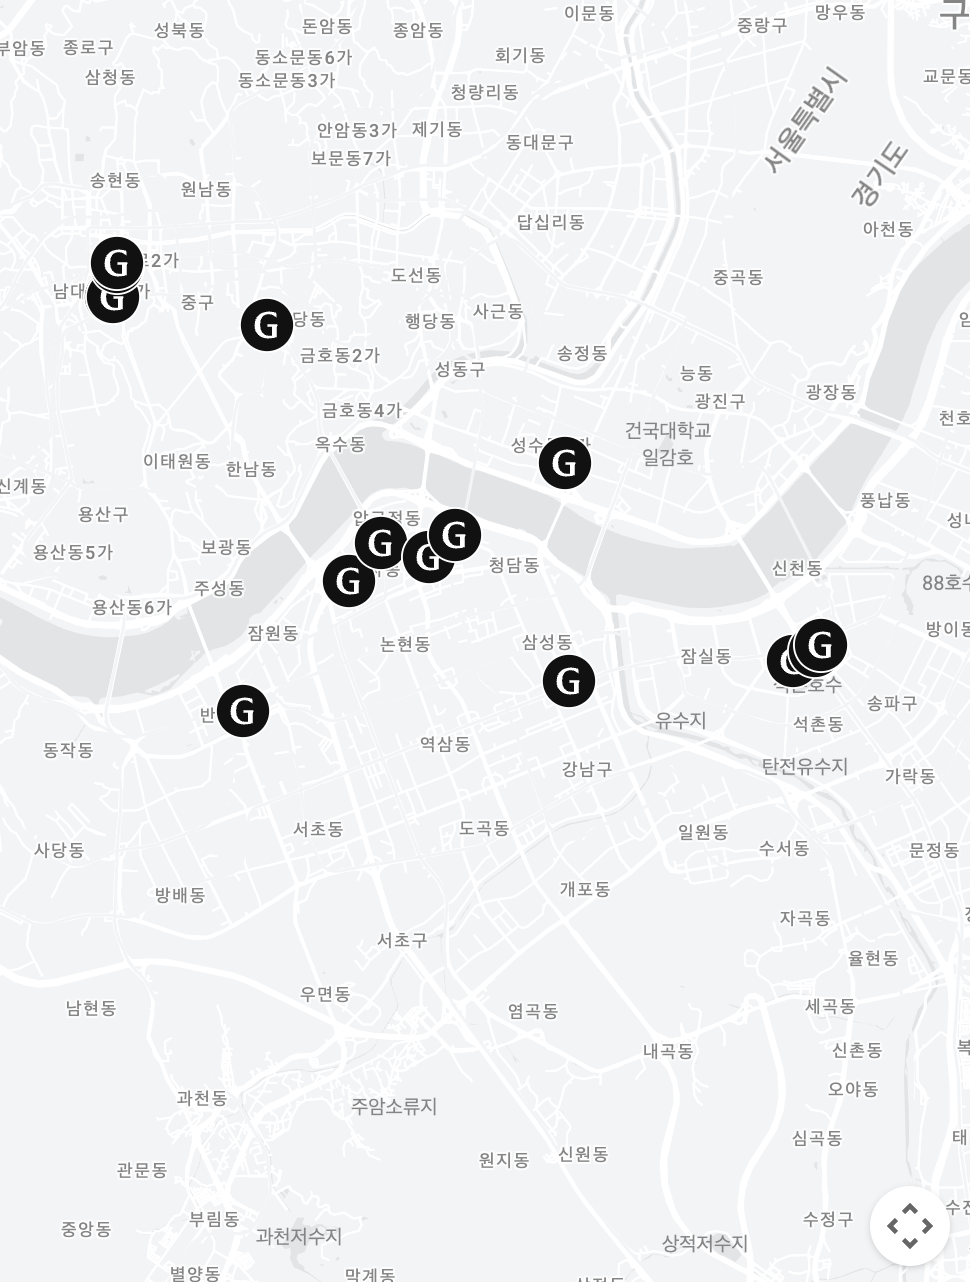
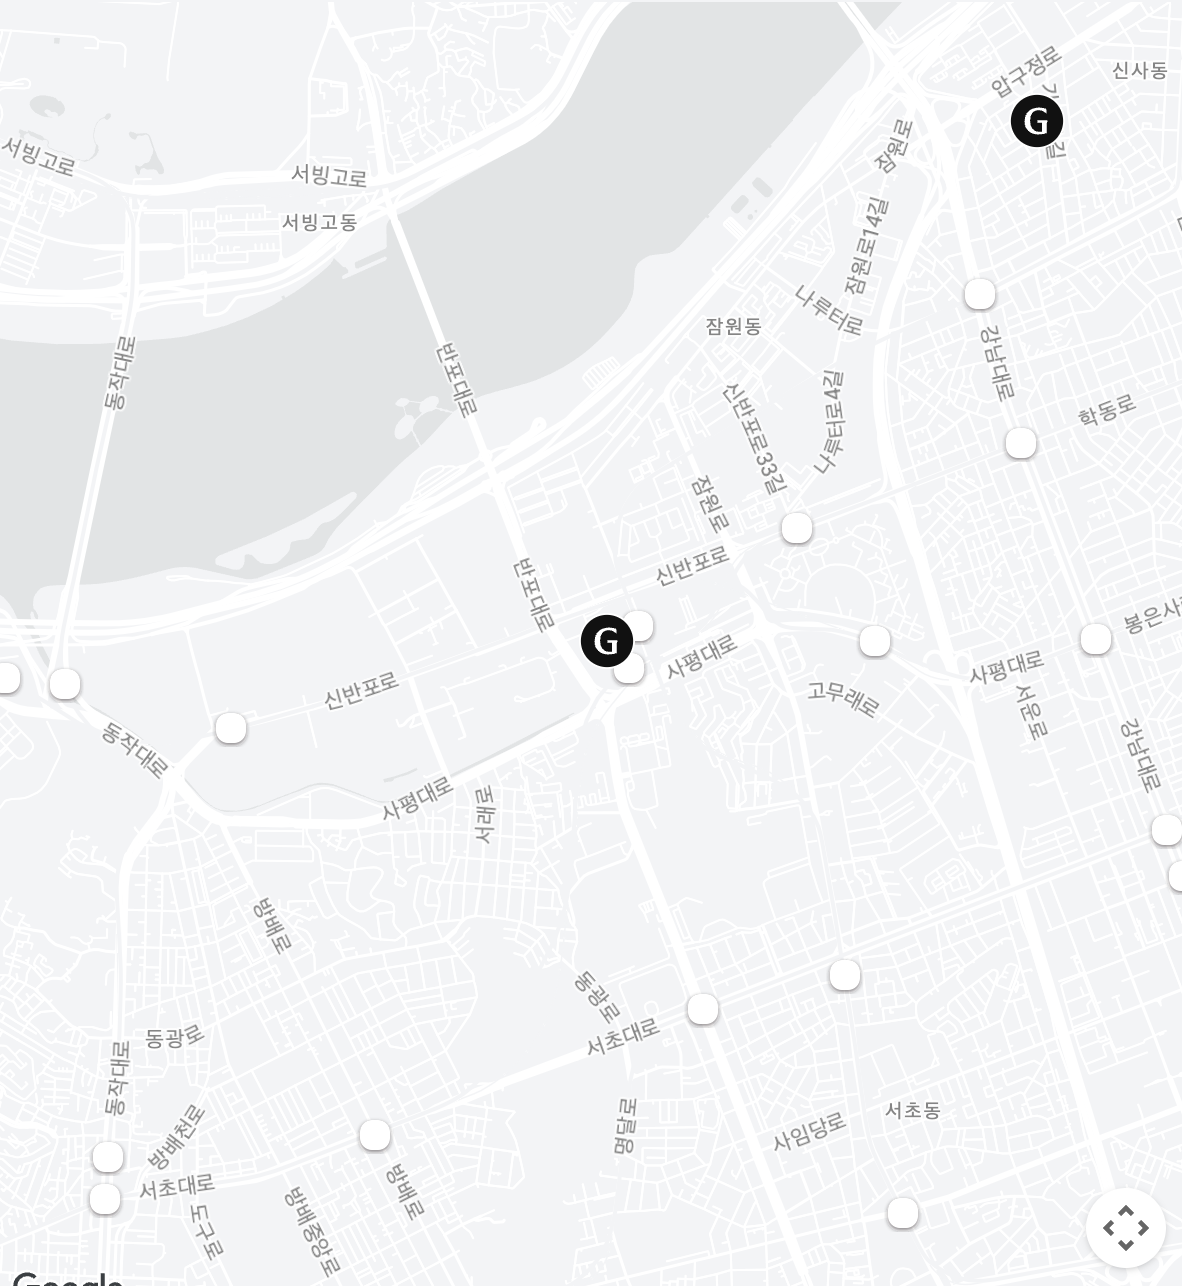
Pull only the lit point toward the screen, and reframe the map
The three points go back to the page margins, and whichever one is lit
slides a column inward — one column plus a gap — so the link to its dot is
made by the move rather than by crowding all three against the panel. The
reveal animation holds the card's own translate, so the slide rides on the
children.

New map art, framed closer: less extra zoom, lifted so the Sinbanpo store
sits in the upper half with room for its card beneath. The press ring is
resized and placed on that pin, measured against the image rather than
guessed.

diff --git a/src/app/globals.css b/src/app/globals.css
@@ -1067,18 +1067,19 @@
     overflow: hidden;
   }
 
-  /* 이 크기에서는 지도 글자와 핀이 너무 작아 한 번 더 당겨 봅니다. */
+  /* 이미 좁혀 찍은 지도라 살짝만 더 당기고, 고른 핀이 위쪽에 오도록 끌어올립니다. */
   .store-map img {
-    scale: 1.5;
+    scale: 1.35;
+    translate: 0 calc(-86 * var(--u));
   }
 
   /* 눌린 핀. 지도 이미지 안 핀 자리에 맞춰 테를 두릅니다. */
   .store-pin {
     position: absolute;
-    left: calc(197.4 * var(--u));
-    top: calc(128.9 * var(--u));
-    height: calc(30 * var(--u));
-    width: calc(30 * var(--u));
+    left: calc(160.3 * var(--u));
+    top: calc(147.1 * var(--u));
+    height: calc(27 * var(--u));
+    width: calc(27 * var(--u));
     border-radius: 50%;
     outline: calc(3 * var(--u)) solid rgb(25 25 25 / 0.28);
     outline-offset: calc(3 * var(--u));
@@ -1089,7 +1090,7 @@
   .store-tip {
     position: absolute;
     left: calc(16 * var(--u));
-    top: calc(190 * var(--u));
+    top: calc(186 * var(--u));
     display: flex;
     width: calc(300 * var(--u));
     flex-direction: column;
@@ -1389,12 +1390,21 @@
   /* 점을 고르면 짝이 되는 항목만 남고 나머지 항목은 물러납니다.
      목업은 그대로 둡니다. 등장 애니메이션이 항목의 opacity 를 붙잡고 있어
      (fill-mode: both) 흐려지는 건 안쪽 요소에 겁니다. */
+  /* 고른 항목은 목업 쪽으로 한 단 당겨 와 짝이 눈에 붙습니다.
+     등장 애니메이션이 항목의 translate 를 붙잡고 있어(fill-mode: both)
+     흐려지는 것도 움직이는 것도 안쪽 요소에 겁니다. */
   .issue > * {
-    transition: opacity 0.5s ease;
+    transition:
+      opacity 0.5s ease,
+      translate 0.6s cubic-bezier(0.22, 1, 0.36, 1);
   }
 
   .issue[data-dim] > * {
     opacity: 0.18;
+  }
+
+  .issue:not([data-dim]) > * {
+    translate: calc(var(--shift, 0) * var(--u));
   }
 
   /* 천천히 번져 나가는 고리 */

diff --git a/src/components/SceneProblem.tsx b/src/components/SceneProblem.tsx
@@ -19,18 +19,22 @@ const POINTS = [
     title: "Functional Search",
     body: "현재 위치와 선택한 지역을 기준으로 가까운 매장을 빠르게 찾을 수 있습니다.",
     place: "col-start-1 col-span-2 row-start-4 row-span-2",
+    /* 고르면 목업 쪽으로 한 단(158.5 + 간격 16) 옮겨 옵니다. */
+    shift: 174.5,
   },
   {
     index: "02",
     title: "Local Context",
     body: "탐색은 접속 국가와 현재 위치를 중심으로 시작되어, 가까운 지역의 매장 정보에 집중됩니다.",
     place: "col-start-7 col-span-2 row-start-3 row-span-2",
+    shift: -174.5,
   },
   {
     index: "03",
     title: "Limited Global View",
     body: "각 매장은 개별 정보로 확인되지만, 전 세계 여러 도시와 연결된 브랜드의 확장감은 한눈에 드러나지 않습니다.",
     place: "col-start-7 col-span-2 row-start-5 row-span-2 issue-low",
+    shift: -174.5,
   },
 ];
 
@@ -111,7 +115,12 @@ export function SceneProblem() {
           key={point.index}
           className={`issue rise ${point.place}`}
           data-dim={picked && picked !== point.index ? true : undefined}
-          style={{ "--delay": `${0.18 + i * 0.08}s` } as CSSProperties}
+          style={
+            {
+              "--delay": `${0.18 + i * 0.08}s`,
+              "--shift": point.shift,
+            } as CSSProperties
+          }
         >
           <span className="card-index">{point.index}</span>
           <h3 className="type-title">{point.title}</h3>
